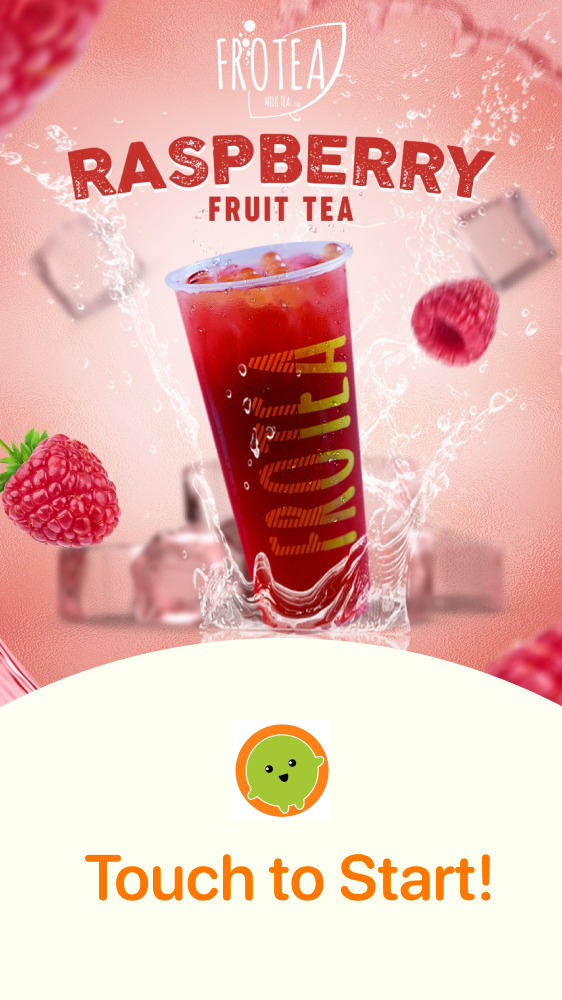
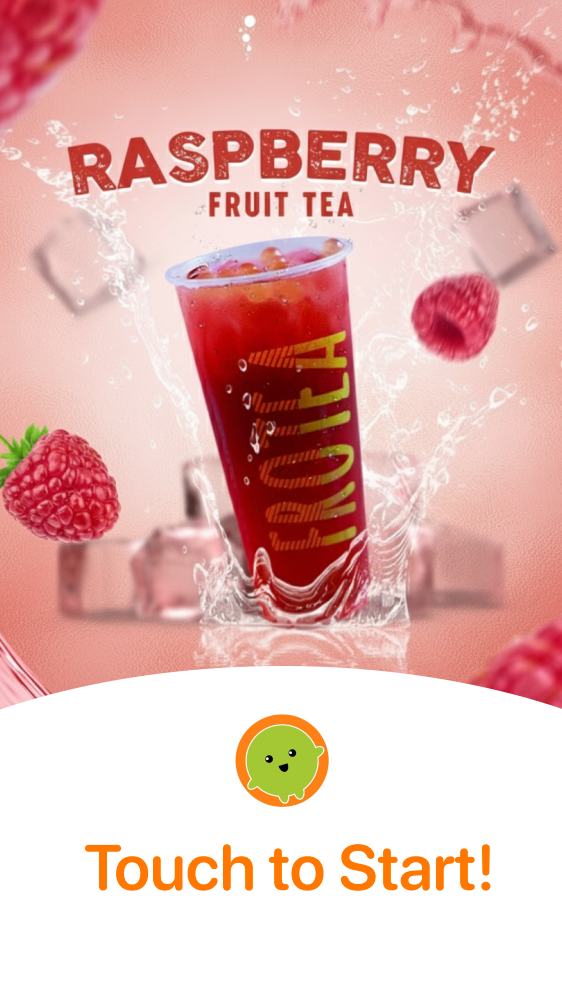
refactor: start image

diff --git a/build/web/flutter_service_worker.js b/build/web/flutter_service_worker.js
@@ -3,7 +3,7 @@ const MANIFEST = 'flutter-app-manifest';
 const TEMP = 'flutter-temp-cache';
 const CACHE_NAME = 'flutter-app-cache';
 
-const RESOURCES = {"flutter_bootstrap.js": "1e499e1e9858ebc7b39413af4bd3e2ef",
+const RESOURCES = {"flutter_bootstrap.js": "81ac46efc26ce1b4613f8e5183d64b41",
 "version.json": "0d959bd5c3d280c229bab7b0bdae1754",
 "index.html": "718bf129b5df952412a13e330dd861d7",
 "/": "718bf129b5df952412a13e330dd861d7",
@@ -23,7 +23,7 @@ const RESOURCES = {"flutter_bootstrap.js": "1e499e1e9858ebc7b39413af4bd3e2ef",
 "assets/shaders/ink_sparkle.frag": "ecc85a2e95f5e9f53123dcaf8cb9b6ce",
 "assets/AssetManifest.bin": "32b43779de7e03438f1ef8cb5e6ff719",
 "assets/fonts/MaterialIcons-Regular.otf": "0db35ae7a415370b89e807027510caf0",
-"assets/assets/images/start.png": "adfed66e6f050696562f2370d6fbeb3e",
+"assets/assets/images/start.png": "eb7255f30be7f2d20ffd2976af7ecb9a",
 "canvaskit/skwasm.js": "9fa2ffe90a40d062dd2343c7b84caf01",
 "canvaskit/skwasm.js.symbols": "262f4827a1317abb59d71d6c587a93e2",
 "canvaskit/canvaskit.js.symbols": "48c83a2ce573d9692e8d970e288d75f7",

diff --git a/build/web/flutter_bootstrap.js b/build/web/flutter_bootstrap.js
@@ -11,6 +11,6 @@ _flutter.buildConfig = {"engineRevision":"b8800d88be4866db1b15f8b954ab2573bba996
 
 _flutter.loader.load({
   serviceWorkerSettings: {
-    serviceWorkerVersion: "1720816556"
+    serviceWorkerVersion: "3648919954"
   }
 });

diff --git a/lib/views/menu.view.dart b/lib/views/menu.view.dart
@@ -1,0 +1,10 @@
+import 'package:flutter/material.dart';
+
+class MenuView extends StatelessWidget {
+  const MenuView({super.key});
+
+  @override
+  Widget build(BuildContext context) {
+    return const Placeholder();
+  }
+}
